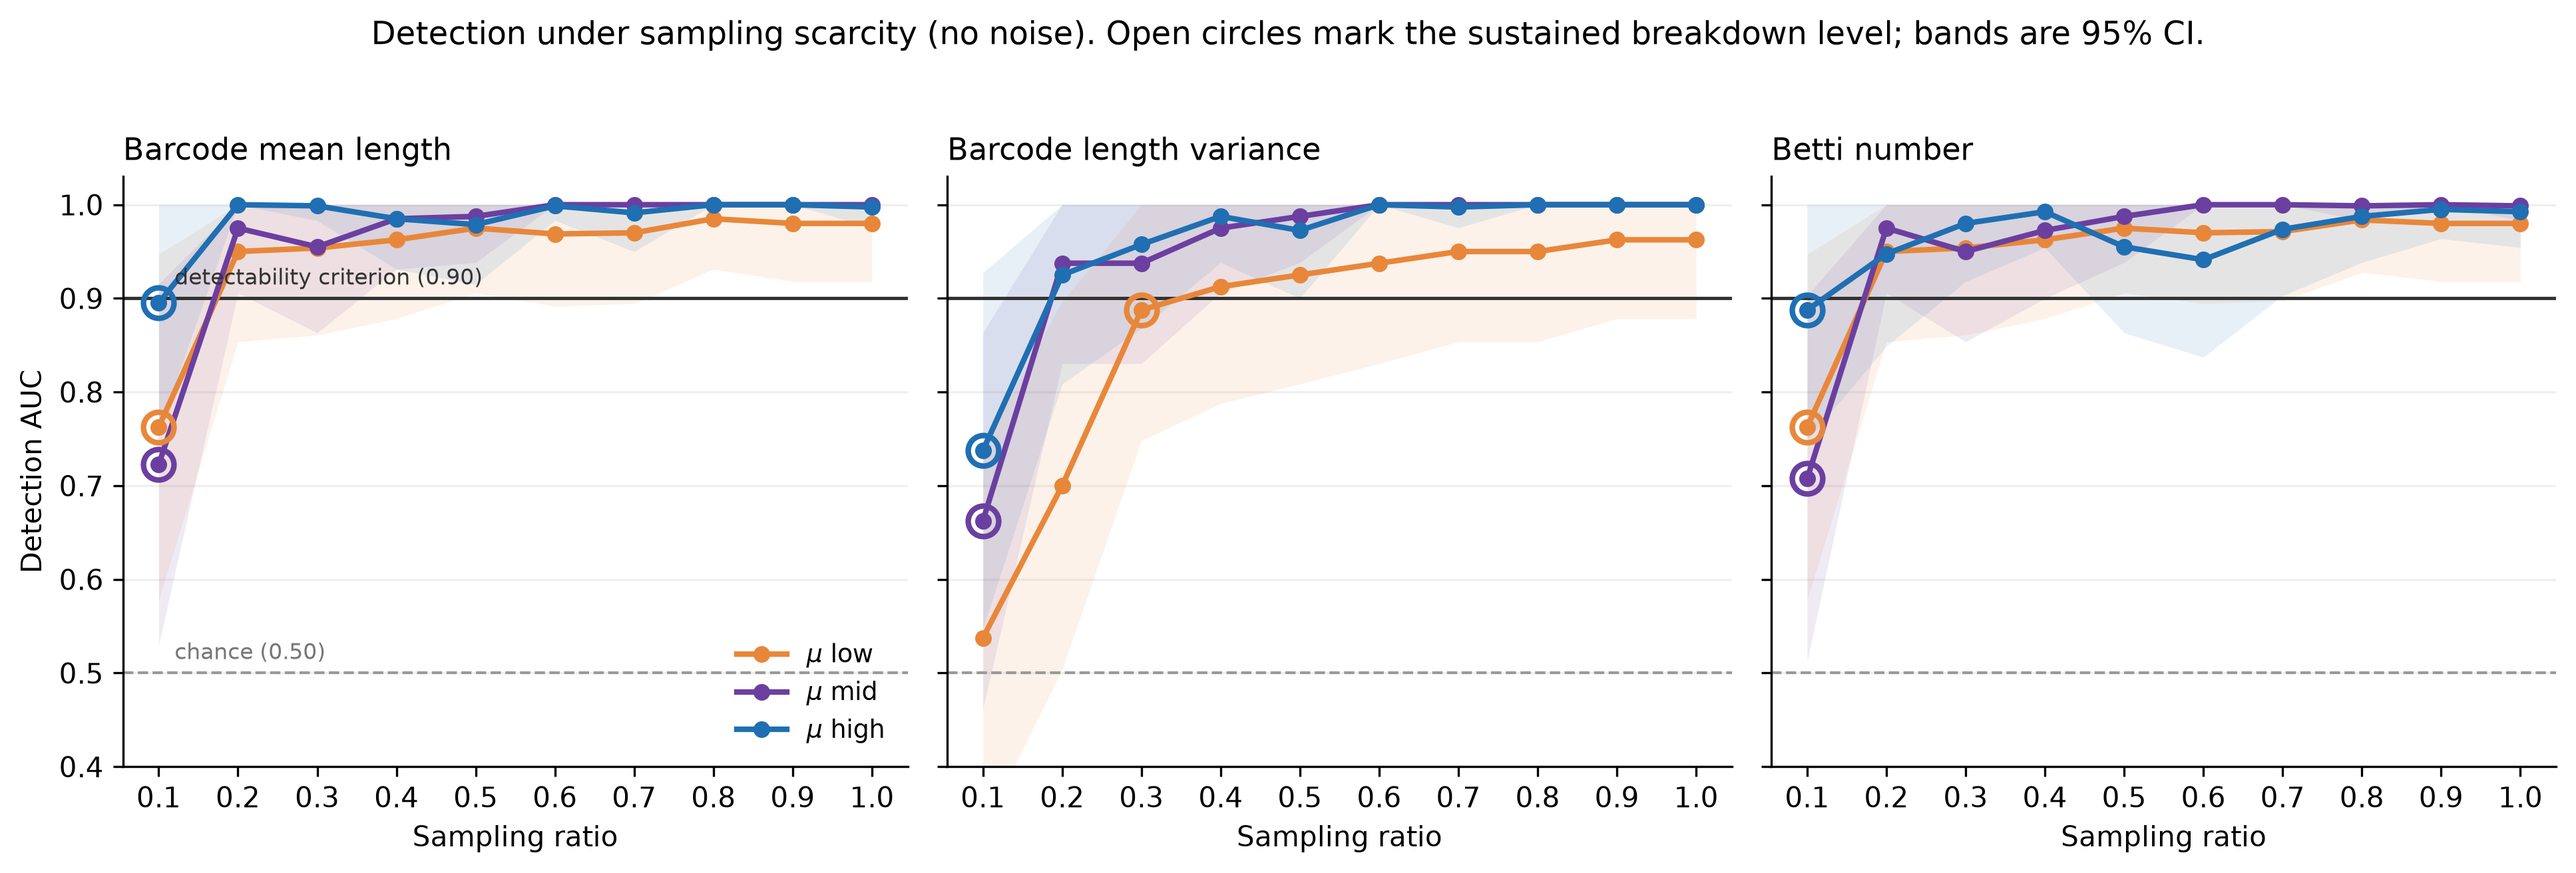
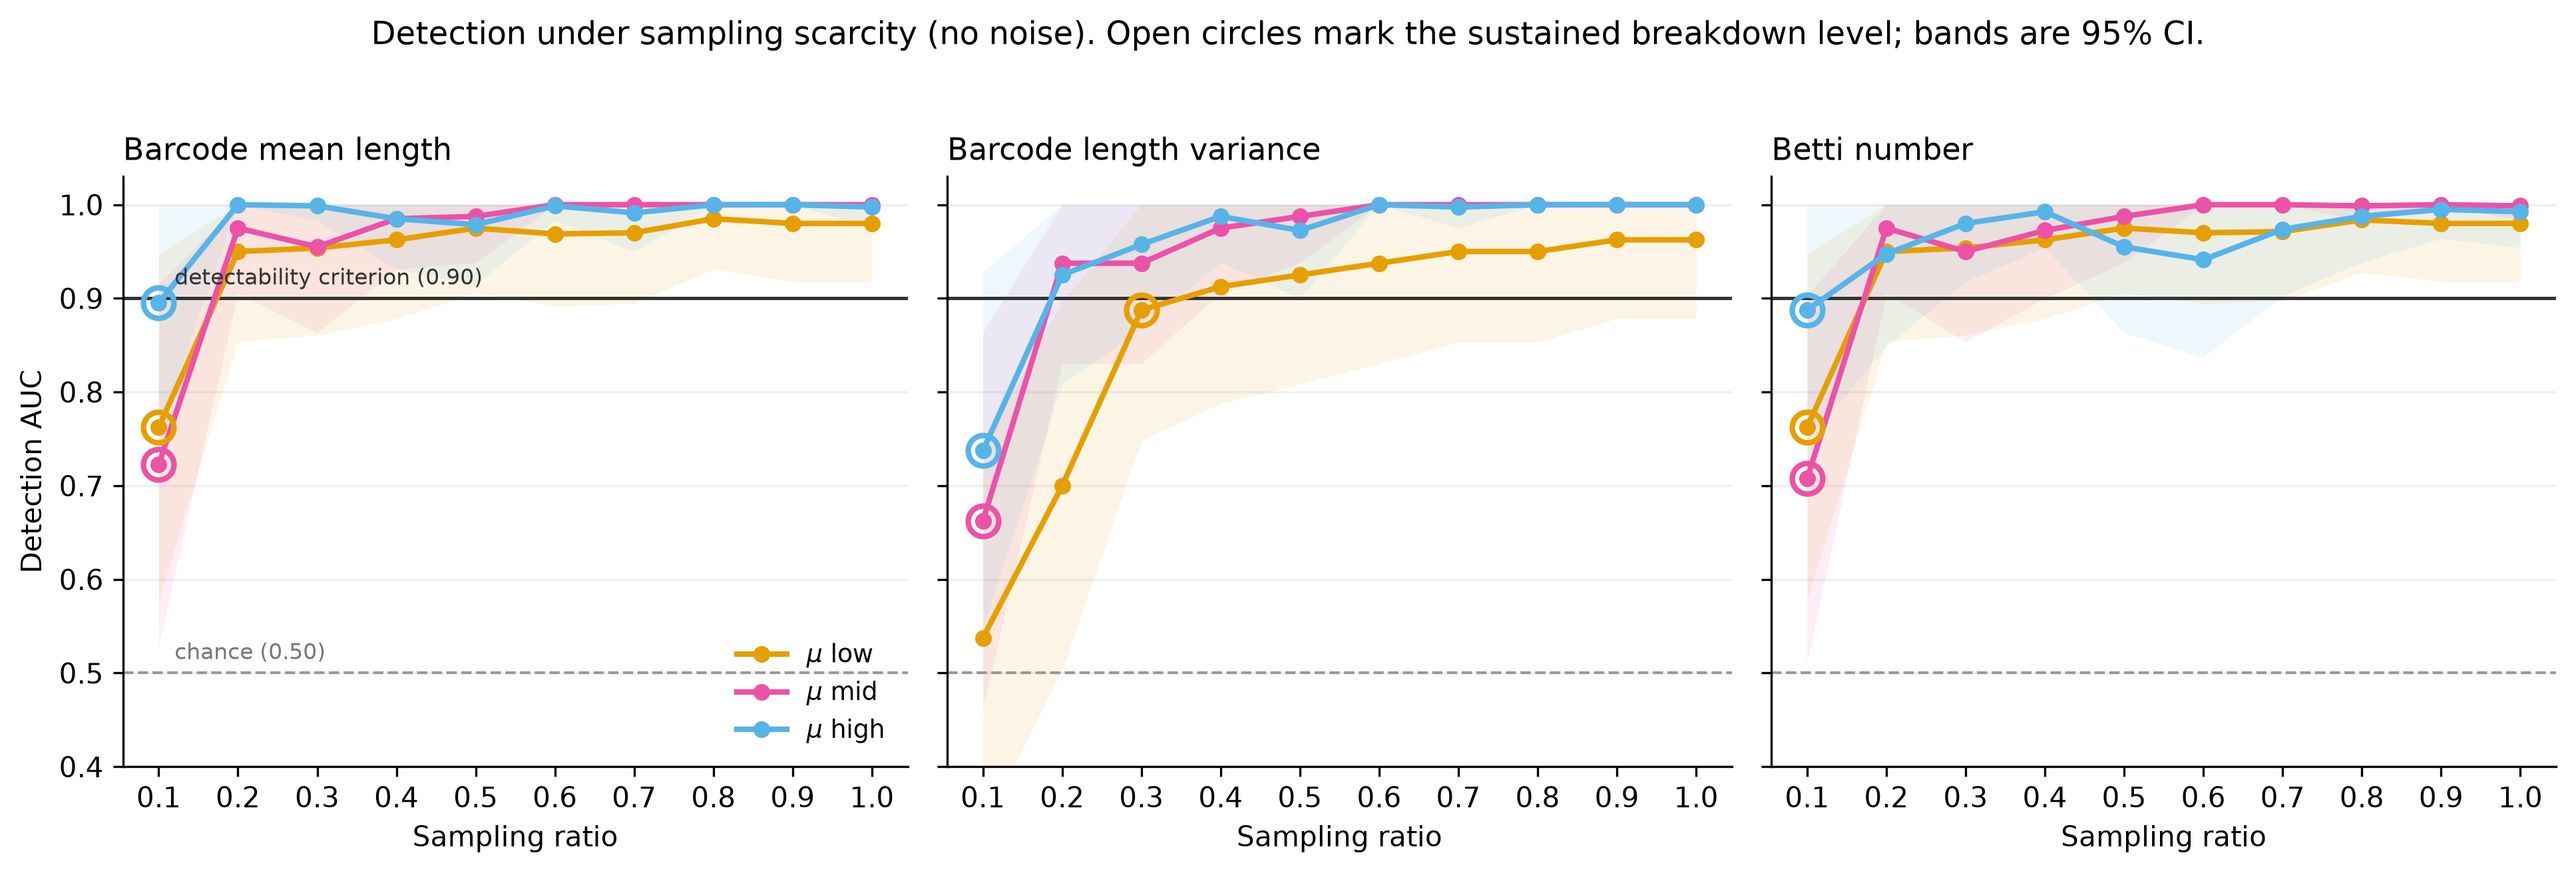
colors

diff --git a/scripts/15_figure_scarcity_curves.py b/scripts/15_figure_scarcity_curves.py
@@ -19,7 +19,7 @@ FEAT_TITLE = {
 }
 
 MU_ORDER = ["low", "mid", "high"]
-MU_COLOUR = {"low": "#E8873A", "mid": "#6B3FA0", "high": "#1F6FB2"}
+MU_COLOUR = {"low": "#E69F00", "mid": "#EC52A7", "high": "#56B4E9"}
 MU_LABEL = {
     "low": r"$\mu$ low",
     "mid": r"$\mu$ mid",
